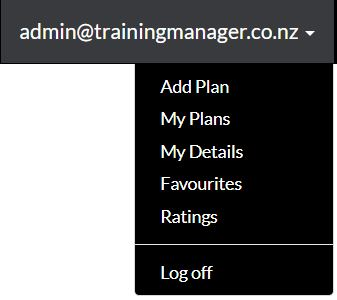
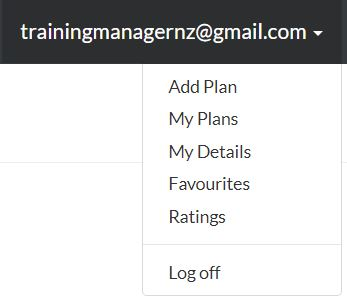
Final changes to navbar.

diff --git a/TrainingManager/Content/Site.css b/TrainingManager/Content/Site.css
@@ -5,8 +5,6 @@
 
 /* Set padding to keep content from hitting the edges */
 .body-content {
-    /*padding-left: 15px;
-    padding-right: 15px;*/
     padding: 0px;
 }
 
@@ -27,7 +25,6 @@ textarea {
 
 span.field-validation-error {
     color: red;
-    /*font-weight: bold;*/
 }
 
 .voffset { margin-top: 2px; }
@@ -45,8 +42,8 @@ span.field-validation-error {
 }
 
 .navbar-inverse {
-    background-color: /*#47C25F*/ #000;
-    border-color: #000;
+    background-color: #343a40;
+    border-color: #343a40;
 }
 
 .navbar-inverse .navbar-nav > li > a {
@@ -57,16 +54,17 @@ span.field-validation-error {
     color: #fff;
 }
 
-.navbar-inverse .navbar-nav > .open > a,
-.navbar-inverse .navbar-nav > .open > a:hover,
-
-.navbar-inverse .navbar-nav > .open > a:focus {
-    background-color: #383a3d/*#4FD688*/;
-}
+    .navbar-inverse .navbar-nav > .open > a,
+    .navbar-inverse .navbar-nav > .open > a:hover,
+    .navbar-inverse .navbar-nav > .open > a:focus {
+        background-color: #2c2e30;
+    }
 
 .dropdown-menu {
     box-shadow: none;
     -webkit-box-shadow: none;
+    background-color: #fff;
+    color: #000;
 }
 
 .navbar-inverse .navbar-nav > .dropdown > a .caret {
@@ -82,16 +80,9 @@ span.field-validation-error {
     font-weight: 700;    
 }
 
-.navbar-nav > li > .dropdown-menu{
-    background-color: #000;
-}
-
-.dropdown-menu > li > a {
-    color: #fff;
-}
-
 .dropdown-menu > li > a:hover {
-    background-color: #383a3d;
+    background-color: #F0F0F0;
+    color: #000;
 }
 
 .dropdown-menu .divider:hover {
@@ -129,26 +120,13 @@ h6,
 }
 
 .btn {
-    /*font-size: 17px;
-    padding: 7px 20px;*/
     -ms-border-radius: 9px;
     border-radius: 9px;
     border: none;
 }
-    /*
-    .btn-link {
-        display: block;
-    }*/
-
-    /*
-.btn-success{
-    background-color: #AE7635;/* #FF7300;
-    border-color: #FF7300;
-}
-                                      */
 
 .btn-info{
-    background-color: /*#f1c40f;*/ #f39c12;
+    background-color: #f39c12;
     border-color: #f39c12;
 }
 
@@ -236,14 +214,6 @@ h6,
         height: 100px;
     }
 
-    /*.plans .plan .myactions {
-        font-size: 15px;
-        display: none;
-    }
-
-    .plans .plan:hover .myactions {
-      display: block;
-    }*/
     
     .tripleBtn{
         padding: 0px;
@@ -396,3 +366,11 @@ h6,
     float: left;
     margin-top: -80px;
 }
+
+.navbar-inverse .navbar-nav > .active > a,
+.navbar-inverse .navbar-nav > .active > a:hover,
+.navbar-inverse .navbar-nav > li:hover,
+.navbar-inverse .navbar-nav > .active > a:focus {
+    background-color: #2c2e30;
+}
+
